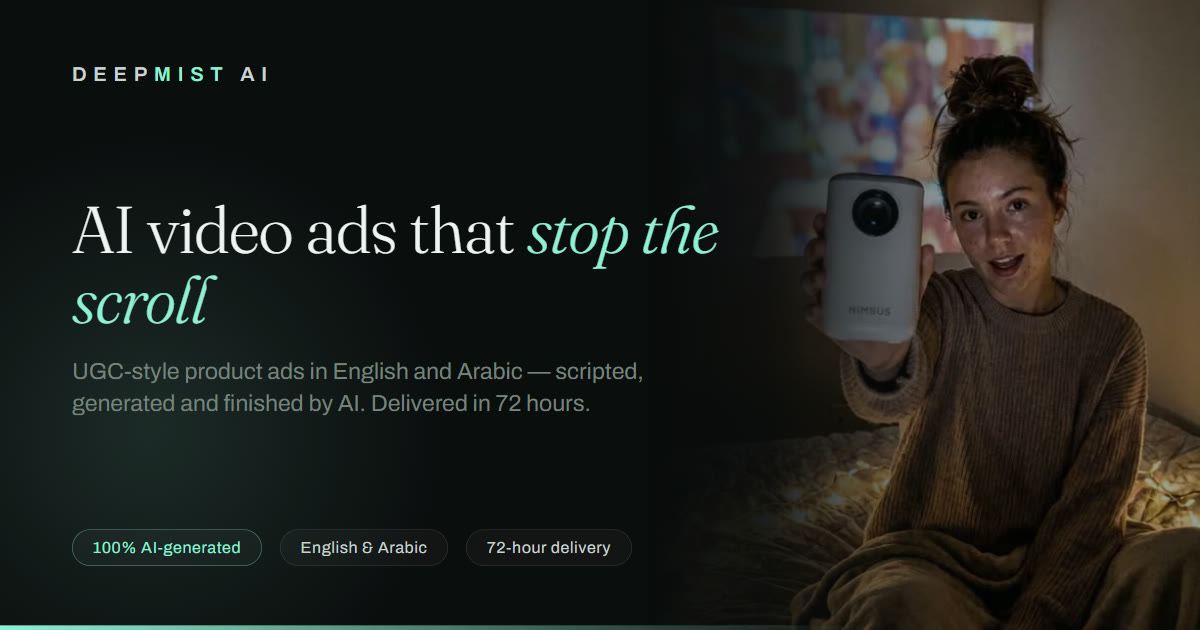
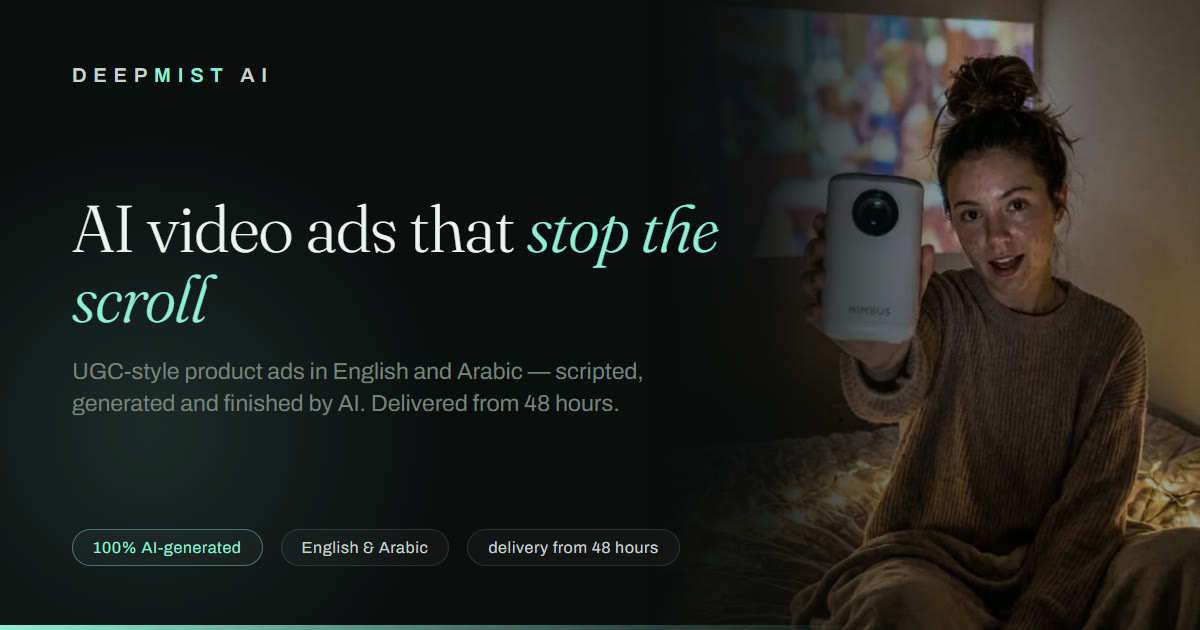
Home: turnaround derived from the price ladder, not a flat 72h (lane #54)

diff --git a/index.html b/index.html
@@ -4,7 +4,7 @@
 <meta charset="UTF-8">
 <meta name="viewport" content="width=device-width, initial-scale=1.0">
 <title>Deep Mist AI — AI Video Ad Studio</title>
-<meta name="description" content="UGC-style AI video ads for e-commerce brands, in English and Arabic. Scripted, generated and finished by AI — delivered in 72 hours. Deep Mist AI FZE, UAE.">
+<meta name="description" content="UGC-style AI video ads for e-commerce brands, in English and Arabic. Scripted, generated and finished by AI — delivered from 48 hours. Deep Mist AI FZE, UAE.">
 <link rel="canonical" href="https://deepmiststudio.com/">
 <link rel="alternate" hreflang="en" href="https://deepmiststudio.com/">
 <link rel="alternate" hreflang="ar" href="https://deepmiststudio.com/index-ar.html">
@@ -12,16 +12,16 @@
 <meta property="og:type" content="website">
 <meta property="og:url" content="https://deepmiststudio.com/">
 <meta property="og:title" content="Deep Mist AI — AI Video Ad Studio">
-<meta property="og:description" content="UGC-style AI video ads for e-commerce brands, in English and Arabic. Delivered in 72 hours.">
+<meta property="og:description" content="UGC-style AI video ads for e-commerce brands, in English and Arabic. Delivered from 48 hours.">
 <meta property="og:image" content="https://deepmiststudio.com/media/og/og-home.jpg">
 <meta property="og:image:width" content="1200">
 <meta property="og:image:height" content="630">
-<meta property="og:image:alt" content="Deep Mist AI — AI video ads that stop the scroll. 100% AI-generated, English and Arabic, 72-hour delivery.">
+<meta property="og:image:alt" content="Deep Mist AI — AI video ads that stop the scroll. 100% AI-generated, English and Arabic, delivery from 48 hours.">
 <meta property="og:site_name" content="Deep Mist AI">
 <meta property="og:locale" content="en_US">
 <meta name="twitter:card" content="summary_large_image">
 <meta name="twitter:title" content="Deep Mist AI — AI Video Ad Studio">
-<meta name="twitter:description" content="UGC-style AI video ads for e-commerce brands, in English and Arabic. Delivered in 72 hours.">
+<meta name="twitter:description" content="UGC-style AI video ads for e-commerce brands, in English and Arabic. Delivered from 48 hours.">
 <meta name="twitter:image" content="https://deepmiststudio.com/media/og/og-home.jpg">
 <link rel="preconnect" href="https://fonts.googleapis.com">
 <link rel="preconnect" href="https://fonts.gstatic.com" crossorigin>
@@ -364,7 +364,7 @@ footer .fm{font-family:var(--wide);letter-spacing:.3em;text-transform:uppercase;
   <div class="hero">
     <div class="eyebrow">AI Video Ad Studio — UAE</div>
     <h1>Ads that don't<br>look like <em>ads.</em></h1>
-    <p class="lede">UGC-style video ads for e-commerce brands — scripted, generated and finished by AI. Any actor, any language, any setting. Delivered in 72 hours for a fraction of a creator's invoice.</p>
+    <p class="lede">UGC-style video ads for e-commerce brands — scripted, generated and finished by AI. Any actor, any language, any setting. Delivered from 48 hours for a fraction of a creator's invoice.</p>
     <div class="cta-row">
       <a class="btn btn-solid" href="#work">See the work</a>
       <a class="btn btn-ghost" href="#pricing">Pricing</a>
@@ -372,7 +372,7 @@ footer .fm{font-family:var(--wide);letter-spacing:.3em;text-transform:uppercase;
   </div>
 
   <div class="ticker"><span>
-    <b>72-hour delivery</b> lip-synced dialogue <b>any language</b> unlimited actors <b>full usage rights</b> hook variants on demand <b>no creator fees</b> 9:16 · 1:1 · 16:9 <b>72-hour delivery</b> lip-synced dialogue <b>any language</b> unlimited actors <b>full usage rights</b> hook variants on demand <b>no creator fees</b> 9:16 · 1:1 · 16:9
+    <b>delivery from 48 hours</b> lip-synced dialogue <b>any language</b> unlimited actors <b>full usage rights</b> hook variants on demand <b>no creator fees</b> 9:16 · 1:1 · 16:9 <b>delivery from 48 hours</b> lip-synced dialogue <b>any language</b> unlimited actors <b>full usage rights</b> hook variants on demand <b>no creator fees</b> 9:16 · 1:1 · 16:9
   </span></div>
 
   <section id="work">
@@ -417,7 +417,7 @@ footer .fm{font-family:var(--wide);letter-spacing:.3em;text-transform:uppercase;
     <div class="steps">
       <div class="step"><div class="num">01</div><h3>Brief</h3><p>Send product photos, your audience, and what makes customers love it. Or just a link — we'll do the digging.</p></div>
       <div class="step"><div class="num">02</div><h3>Script &amp; approve</h3><p>We write hooks engineered for your platform and audience. You approve the script and storyboard before a single frame is generated.</p></div>
-      <div class="step"><div class="num">03</div><h3>Delivery</h3><p>Finished vertical ad — lip-synced dialogue, ambient sound, captions if you want them — in 24–72 hours, with revisions included.</p></div>
+      <div class="step"><div class="num">03</div><h3>Delivery</h3><p>Finished vertical ad — lip-synced dialogue, ambient sound, captions if you want them — in 48 hours to 5 days depending on the size of the pack, with revisions included.</p></div>
     </div>
   </section>
 
@@ -492,7 +492,7 @@ footer .fm{font-family:var(--wide);letter-spacing:.3em;text-transform:uppercase;
 
   <section id="contact" style="text-align:center">
     <h2 style="margin-bottom:24px">Let's make your product <em>scroll-proof.</em></h2>
-    <p style="color:var(--mist-dim);max-width:460px;margin:0 auto 40px">Orders currently run through our Fiverr studio page while direct booking opens up. Same team, same 72-hour turnaround.</p>
+    <p style="color:var(--mist-dim);max-width:460px;margin:0 auto 40px">Orders currently run through our Fiverr studio page while direct booking opens up. Same team, same turnaround — from 48 hours.</p>
     <a class="btn btn-solid" href="https://www.fiverr.com/bram000" id="orderLink">Order on Fiverr</a>
   </section>
 </main>
